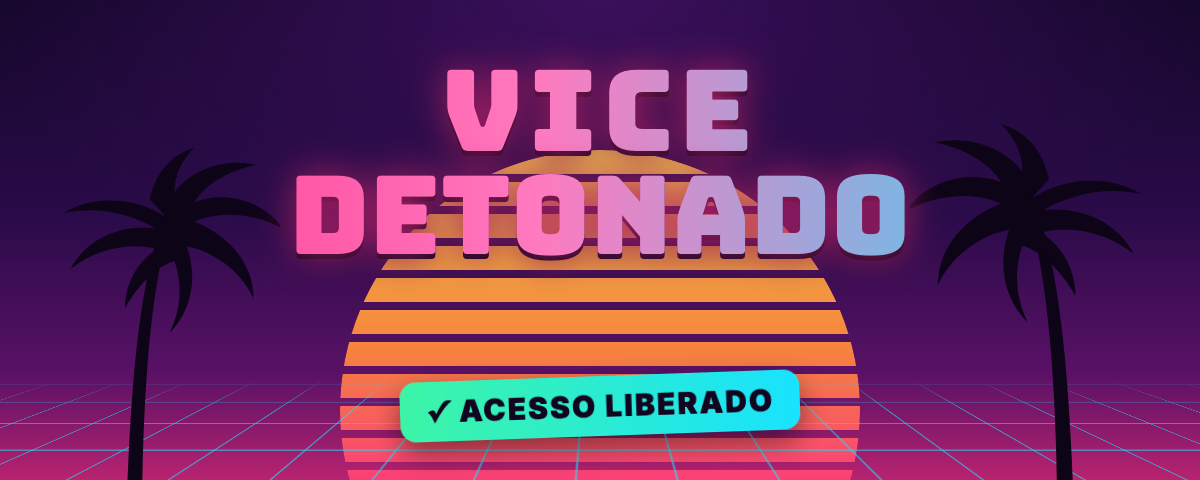
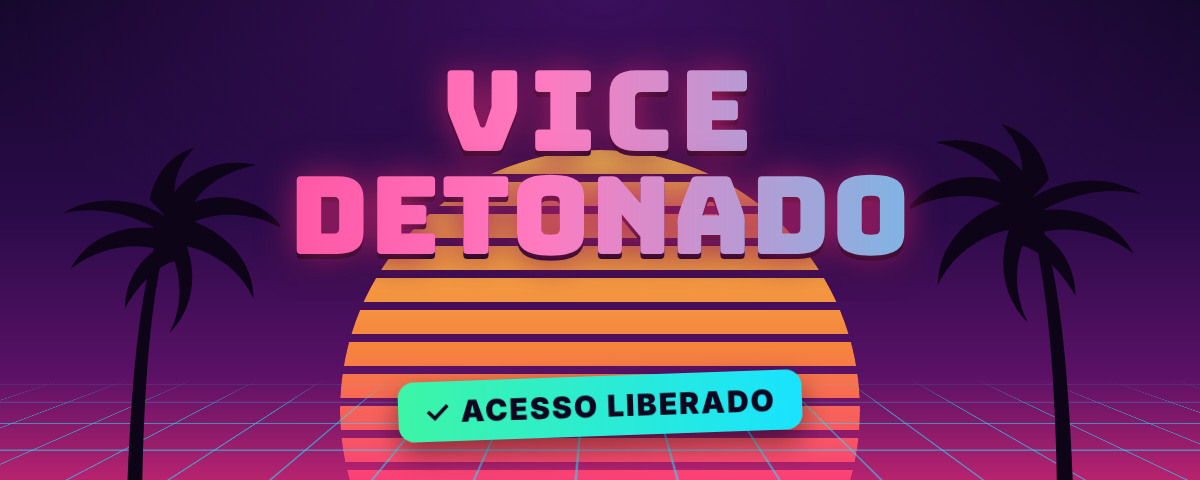
Recuperação de carrinho abandonado e Pix por e-mail (agendador a cada 5 min, descadastro)
Claude-Session: https://claude.ai/code/session_01EDcYwq5CbwWpEmB3uCXkTa

diff --git a/gta6-guia/app/worker/index.js b/gta6-guia/app/worker/index.js
@@ -11,10 +11,12 @@
  *   GET  /api/content/:lang/:mod  conteúdo do módulo (só se a compra liberou)
  *   GET  /api/missions/:lang      índice das missões · GET /api/missions/:lang/:slug  passo a passo
  *   GET  /api/progress  · PUT /api/progress { data }
+ *   GET  /api/email/sair?e=&t=    descadastro dos e-mails de recuperação
+ * Agendador (cron a cada 5 min): envia os e-mails de recuperação de carrinho/Pix que estão na hora.
  */
 import CONTENT_PT from './content/pt.json';
 import MISSOES_PT from './content/missoes-pt.json';
-import { accessEmail, cancelEmail, sendEmail, productTitle } from './emails.js';
+import { accessEmail, cancelEmail, recoveryEmail, sendEmail, productTitle } from './emails.js';
 
 const CONTENT = { pt: CONTENT_PT };
 const TERMS_VERSION = '2026-11-26';
@@ -151,6 +153,7 @@ const EVENT_KIND = {
   sale_boleto_generated: 'pending',
   sale_refunded: 'refunded',
   sale_chargeback: 'chargeback',
+  sale_abandoned: 'abandoned',
 };
 
 /** Itens do aviso. A Sellyo costuma mandar um aviso por produto (bump = outro aviso, mesmo orderId);
@@ -220,6 +223,106 @@ async function notifyBuyer(env, { kind, email, name, orderId, basePayment }) {
   await done(r.ok ? 'sent' : 'failed', r.ok ? r.id : r.error);
 }
 
+// ---------- recuperação de vendas (e-mail) ----------
+// Primeiro e-mail: carrinho em 60 min, Pix em 15 min. Depois, 24 h e 48 h após o início (iguais para os dois).
+const REC_FIRST_MIN = { cart: 60, pix: 15 };
+const REC_LATER_H = [24, 48];
+const addMin = (iso, m) => new Date(Date.parse(iso) + m * 60000).toISOString();
+
+async function hmacTag(env, value) {
+  const secret = env.UNSUB_SECRET || env.SELLYO_WEBHOOK_TOKEN || env.RESEND_API_KEY || 'vice-detonado';
+  const key = await crypto.subtle.importKey('raw', enc.encode(secret), { name: 'HMAC', hash: 'SHA-256' }, false, ['sign']);
+  return b64url(new Uint8Array(await crypto.subtle.sign('HMAC', key, enc.encode(value)))).slice(0, 24);
+}
+async function unsubUrl(env, email) {
+  const base = String(env.APP_URL || 'https://app.vicedetonado.com').replace(/\/+$/, '');
+  return `${base}/api/email/sair?e=${encodeURIComponent(email)}&t=${await hmacTag(env, email)}`;
+}
+
+/** Link de volta ao checkout: o que vier no aviso da Sellyo; senão, o checkout do produto (pelos módulos que ele libera). */
+async function recoveryLink(env, p, externalId, kind) {
+  const fromPayload = [p.checkout?.url, p.checkoutUrl, p.checkout_url, p.cart?.checkoutUrl, p.cart?.url, p.links?.checkout, p.payment?.checkoutUrl]
+    .find((x) => typeof x === 'string' && /^https:\/\//.test(x));
+  let url = fromPayload;
+  if (!url) {
+    const prod = await env.DB.prepare('SELECT grants FROM products WHERE external_id = ?').bind(externalId).first();
+    const g = String(prod?.grants || '');
+    url = g.includes('dinheiro') ? env.BUMP_URL_DINHEIRO : g.includes('platina') ? env.BUMP_URL_PLATINA : g.includes('garagem') ? env.BUMP_URL_GARAGEM : env.CHECKOUT_URL;
+  }
+  if (!url) return '';
+  try {
+    const u = new URL(url);
+    const phone = String(p.customer?.phone || '').replace(/[^\d]/g, '');
+    const set = { name: p.customer?.name, email: p.customer?.email, phone, utm_source: 'email', utm_medium: 'recuperacao', utm_campaign: kind };
+    for (const [k, v] of Object.entries(set)) if (v && !u.searchParams.has(k)) u.searchParams.set(k, String(v));
+    return u.toString();
+  } catch { return url; }
+}
+
+/** Começa (ou atualiza) a sequência de recuperação de uma pessoa. */
+async function startRecovery(env, p, { kind, email, externalId }) {
+  if (await env.DB.prepare('SELECT 1 FROM email_optout WHERE email = ?').bind(email).first()) return 'optout';
+  // Já comprou esse produto? Nada a recuperar.
+  const owned = await env.DB.prepare("SELECT 1 FROM purchases WHERE buyer_email = ? AND external_id = ? AND status = 'approved'").bind(email, externalId).first();
+  if (owned) return 'ja comprou';
+  const id = `${kind}:${email}`;
+  const link = await recoveryLink(env, p, externalId, kind);
+  const pixCode = String(p.payment?.pix?.copyPaste || p.payment?.pix?.code || p.payment?.pix?.qrCode || p.payment?.pixCode || p.pix?.code || '').slice(0, 1000);
+  const t = now();
+  const cur = await env.DB.prepare('SELECT status, updated_at FROM recovery WHERE id = ?').bind(id).first();
+  if (cur?.status === 'active') {
+    // Sequência já em andamento: só atualiza o link/código (não recomeça para não repetir e-mails).
+    await env.DB.prepare("UPDATE recovery SET link = COALESCE(NULLIF(?, ''), link), pix_code = COALESCE(NULLIF(?, ''), pix_code), updated_at = ? WHERE id = ?")
+      .bind(link, pixCode, t, id).run();
+    return 'em andamento';
+  }
+  // Uma sequência encerrada há menos de 7 dias não recomeça (evita mandar a mesma série de novo).
+  if (cur && Date.now() - Date.parse(cur.updated_at) < 7 * 86400000) return 'recente';
+  await env.DB.batch([
+    env.DB.prepare(`INSERT INTO recovery (id, kind, email, name, external_id, link, pix_code, step, next_at, status, created_at, updated_at)
+       VALUES (?1, ?2, ?3, ?4, ?5, ?6, ?7, 0, ?8, 'active', ?9, ?9)
+       ON CONFLICT(id) DO UPDATE SET name = ?4, external_id = ?5, link = ?6, pix_code = ?7, step = 0, next_at = ?8, status = 'active', detail = '', created_at = ?9, updated_at = ?9`)
+      .bind(id, kind, email, String(p.customer?.name || '').slice(0, 200), externalId, link, pixCode, addMin(t, REC_FIRST_MIN[kind]), t),
+    // Quem gerou Pix sai da sequência de carrinho (fica só a do Pix).
+    ...(kind === 'pix' ? [env.DB.prepare("UPDATE recovery SET status = 'done', detail = 'virou pix', updated_at = ? WHERE id = ? AND status = 'active'").bind(t, `cart:${email}`)] : []),
+  ]);
+  return 'iniciada';
+}
+
+/** Compra aprovada: encerra as sequências dessa pessoa. */
+const stopRecovery = (env, email) =>
+  env.DB.prepare("UPDATE recovery SET status = 'bought', updated_at = ? WHERE email = ? AND status = 'active'").bind(now(), email).run();
+
+/** Agendador: envia os e-mails que estão na hora (até 50 por rodada). */
+async function runRecovery(env) {
+  const { results } = await env.DB.prepare("SELECT * FROM recovery WHERE status = 'active' AND next_at <= ? ORDER BY next_at LIMIT 50").bind(now()).all();
+  for (const r of results) {
+    const t = now();
+    const close = (status, detail = '') => env.DB.prepare('UPDATE recovery SET status = ?, detail = ?, updated_at = ? WHERE id = ?').bind(status, detail, t, r.id).run();
+    if (await env.DB.prepare('SELECT 1 FROM email_optout WHERE email = ?').bind(r.email).first()) { await close('optout'); continue; }
+    const bought = await env.DB.prepare("SELECT 1 FROM purchases WHERE buyer_email = ? AND status = 'approved' AND (external_id = ? OR updated_at >= ?)")
+      .bind(r.email, r.external_id, r.created_at).first();
+    if (bought) { await close('bought'); continue; }
+    if (!r.link) { await close('done', 'sem link de checkout'); continue; }
+    const step = r.step + 1;
+    const unsub = await unsubUrl(env, r.email);
+    const msg = recoveryEmail(env, { kind: r.kind, step, name: r.name, link: r.link, pixCode: r.pix_code, unsubUrl: unsub });
+    const res = await sendEmail(env, { to: r.email, ...msg, idempotencyKey: `rec:${r.id}:${r.created_at}:${step}`,
+      headers: { 'List-Unsubscribe': `<${unsub}>`, 'List-Unsubscribe-Post': 'List-Unsubscribe=One-Click' } });
+    if (!res.ok) {
+      // Falhou: tenta de novo em 15 min; desiste depois de 3 dias do início.
+      const giveUp = Date.now() - Date.parse(r.created_at) > 3 * 86400000;
+      await env.DB.prepare('UPDATE recovery SET next_at = ?, status = ?, detail = ?, updated_at = ? WHERE id = ?')
+        .bind(addMin(t, 15), giveUp ? 'done' : 'active', `falha no e-mail ${step}: ${res.error}`, t, r.id).run();
+      continue;
+    }
+    const next = step <= REC_LATER_H.length ? addMin(r.created_at, REC_LATER_H[step - 1] * 60) : null;
+    await env.DB.prepare('UPDATE recovery SET step = ?, next_at = ?, status = ?, detail = ?, updated_at = ? WHERE id = ?')
+      .bind(step, next || t, next ? 'active' : 'done', `e-mail ${step} enviado`, t, r.id).run();
+  }
+  return results.length;
+}
+
 async function sellyoWebhook(req, env, url, ctx) {
   if (env.SELLYO_WEBHOOK_TOKEN && !sameText(url.searchParams.get('token') || '', env.SELLYO_WEBHOOK_TOKEN)) {
     return json({ ok: false, error: 'Token inválido' }, 401);
@@ -237,6 +340,12 @@ async function sellyoWebhook(req, env, url, ctx) {
   const dup = await env.DB.prepare('SELECT outcome FROM webhook_events WHERE id = ?').bind(eventId).first();
   if (dup) return json({ ok: true, outcome: 'duplicate' });
   if (kind === 'ignore') return log('ignored');
+  if (kind === 'abandoned') {
+    const email = normEmail(p.customer?.email);
+    const it = itemsOf(p)[0];
+    if (!validEmail(email) || !it) return log('ignored', 'abandono sem e-mail ou produto');
+    return log('recovery', await startRecovery(env, p, { kind: 'cart', email, externalId: it.externalId }));
+  }
   if (kind === 'approved' && p.subscription?.customerAccess?.hasAccess === false) return log('ignored', 'sem acesso');
 
   const email = normEmail(p.customer?.email);
@@ -285,6 +394,9 @@ async function sellyoWebhook(req, env, url, ctx) {
     const prod = await env.DB.prepare('SELECT grants FROM products WHERE external_id = ?').bind(it.externalId).first();
     if (!prod?.grants) unmapped.push(it.externalId);
   }
+  let recNote = '';
+  if (kind === 'approved') await stopRecovery(env, email);
+  else if (p.event === 'sale_pix_generated') recNote = 'recuperação: ' + (await startRecovery(env, p, { kind: 'pix', email, externalId: items[0].externalId }));
   const outcome = kind === 'approved' ? (unmapped.length ? 'unmapped_product' : 'granted') : kind === 'pending' ? 'recorded' : 'revoked';
   if (kind !== 'pending') {
     const job = notifyBuyer(env, { kind, email, name: p.customer?.name, orderId: p.order?.orderId || null, basePayment })
@@ -292,7 +404,7 @@ async function sellyoWebhook(req, env, url, ctx) {
     if (ctx) ctx.waitUntil(job);
     else await job;
   }
-  return log(outcome, [created ? 'conta criada' : '', unmapped.length ? 'sem mapeamento: ' + unmapped.join(', ') : ''].filter(Boolean).join(' · '));
+  return log(outcome, [created ? 'conta criada' : '', unmapped.length ? 'sem mapeamento: ' + unmapped.join(', ') : '', recNote].filter(Boolean).join(' · '));
 }
 
 // ---------- rotas da conta ----------
@@ -326,6 +438,30 @@ async function api(req, env, url, ctx) {
   if (path === '/api/webhooks/sellyo' && method === 'POST') return sellyoWebhook(req, env, url, ctx);
 
   // Prévia dos e-mails, só no ambiente de desenvolvimento: /api/dev/email/acesso | reembolso | chargeback
+  const rv = path.match(/^\/api\/dev\/email\/(carrinho|pix)-([123])$/);
+  if (rv && method === 'GET' && isDev(env)) {
+    const m = recoveryEmail(env, { kind: rv[1] === 'pix' ? 'pix' : 'cart', step: Number(rv[2]), name: 'Lucia Caminos', link: 'https://pay.sellyo.com.br/p/exemplo',
+      pixCode: rv[1] === 'pix' ? '00020126580014br.gov.bcb.pix0136exemplo-de-codigo-pix-copia-e-cola5204000053039865406' : '', unsubUrl: await unsubUrl(env, 'lucia@example.com') });
+    return new Response(m.html, { headers: { 'content-type': 'text/html; charset=utf-8' } });
+  }
+  if (path === '/api/dev/recovery/run' && method === 'POST' && isDev(env)) return json({ processed: await runRecovery(env) });
+
+  if (path === '/api/email/sair' && (method === 'GET' || method === 'POST')) {
+    const email = normEmail(url.searchParams.get('e'));
+    const ok = validEmail(email) && sameText(url.searchParams.get('t') || '', await hmacTag(env, email));
+    if (ok) {
+      await env.DB.batch([
+        env.DB.prepare('INSERT OR IGNORE INTO email_optout (email) VALUES (?)').bind(email),
+        env.DB.prepare("UPDATE recovery SET status = 'optout', updated_at = ? WHERE email = ? AND status = 'active'").bind(now(), email),
+      ]);
+    }
+    const msg = ok ? 'Pronto! Você não vai mais receber esses e-mails.' : 'Link inválido.';
+    return new Response(`<!doctype html><html lang="pt-BR"><meta charset="utf-8"><meta name="viewport" content="width=device-width,initial-scale=1"><title>Vice Detonado</title>
+<body style="margin:0;min-height:100vh;display:grid;place-items:center;background:#0d0618;color:#f6eeff;font-family:Inter,system-ui,sans-serif;text-align:center;padding:24px">
+<div><h1 style="font-size:22px">${msg}</h1><p style="color:#b3a3d1">Se mudar de ideia, é só comprar quando quiser.</p></div></body></html>`,
+      { status: ok ? 200 : 400, headers: { 'content-type': 'text/html; charset=utf-8' } });
+  }
+
   const pv = path.match(/^\/api\/dev\/email\/(acesso|reembolso|chargeback)$/);
   if (pv && method === 'GET' && isDev(env)) {
     const m = pv[1] === 'acesso'
@@ -429,5 +565,9 @@ export default {
       }
     }
     return env.ASSETS.fetch(req);
+  },
+  // Cron (wrangler.jsonc → triggers): recuperação de carrinho/Pix por e-mail.
+  async scheduled(event, env, ctx) {
+    ctx.waitUntil(runRecovery(env).catch((e) => console.error('recovery_error', e?.message)));
   },
 };

diff --git a/gta6-guia/app/worker/emails.js b/gta6-guia/app/worker/emails.js
@@ -25,7 +25,7 @@ const host = (env) => appUrl(env).replace(/^https?:\/\//, '');
 const C = { bg: '#0d0618', card: '#1c1033', card2: '#25153f', line: '#3a2560', text: '#f6eeff', muted: '#b3a3d1', pink: '#ff2e88', cyan: '#19e3ff', gold: '#ffd24a', ok: '#3df5a6' };
 const FONT = "font-family:Inter,'Segoe UI',Roboto,Helvetica,Arial,sans-serif;";
 
-function layout(env, { preheader, banner, bannerAlt, body }) {
+function layout(env, { preheader, banner, bannerAlt, body, footer }) {
   const url = appUrl(env);
   return `<!doctype html>
 <html lang="pt-BR"><head><meta charset="utf-8"><meta name="viewport" content="width=device-width,initial-scale=1">
@@ -44,7 +44,7 @@ function layout(env, { preheader, banner, bannerAlt, body }) {
     </td></tr>
     <tr><td align="center" style="padding:22px 16px 8px;${FONT}font-size:12px;line-height:1.6;color:${C.muted};">
       Vice Detonado · guia não oficial, sem vínculo com a Rockstar Games ou a Take-Two.<br>
-      Você recebeu este e-mail por causa de uma compra feita com este endereço.
+      ${footer || 'Você recebeu este e-mail por causa de uma compra feita com este endereço.'}
     </td></tr>
   </table>
 </td></tr></table>
@@ -181,7 +181,7 @@ export function cancelEmail(env, { name, kind, items, stillHasAccess }) {
 }
 
 /** Envia pelo Resend. Retorna { ok, id?, error? }. Sem RESEND_API_KEY (dev), só registra no console. */
-export async function sendEmail(env, { to, subject, html, text, idempotencyKey }) {
+export async function sendEmail(env, { to, subject, html, text, idempotencyKey, headers }) {
   if (!env.RESEND_API_KEY) {
     console.log('email (sem RESEND_API_KEY, não enviado):', to, subject);
     return { ok: false, error: 'sem RESEND_API_KEY' };
@@ -200,8 +200,65 @@ export async function sendEmail(env, { to, subject, html, text, idempotencyKey }
       html,
       text,
       ...(env.EMAIL_REPLY_TO ? { reply_to: env.EMAIL_REPLY_TO } : {}),
+      ...(headers ? { headers } : {}),
     }),
   });
   const body = await r.json().catch(() => ({}));
   return r.ok ? { ok: true, id: body.id } : { ok: false, error: `${r.status} ${body.message || body.name || ''}`.trim() };
+}
+
+/**
+ * Recuperação de venda. kind: 'cart' (carrinho abandonado) | 'pix' (Pix gerado e não pago).
+ * step: 1, 2 ou 3 (o 1º e-mail muda conforme o tipo; o 2º e o 3º são iguais para os dois).
+ */
+export function recoveryEmail(env, { kind, step, name, link, pixCode, unsubUrl }) {
+  const fn = firstName(name);
+  const hi = fn ? `${esc(fn)}, ` : '';
+  const benefits = `<table role="presentation" width="100%" cellpadding="0" cellspacing="0" border="0" bgcolor="${C.card2}" style="background:${C.card2};border:1px solid ${C.line};border-radius:14px;margin:6px 0 4px;">${[
+    'As 135 missões passo a passo, com imagem',
+    'Checklist dos 100% e todos os colecionáveis',
+    'O que você perde em cada capítulo, antes de avançar',
+    'Busca instantânea: digitou, achou',
+    'Em português e funcionando até sem internet',
+  ].map((t, i, a) => `<tr><td style="padding:11px 16px;${i < a.length - 1 ? `border-bottom:1px solid ${C.line};` : ''}${FONT}font-size:15px;color:${C.text};"><span style="color:${C.ok};font-weight:900;">✓</span>&nbsp; ${t}</td></tr>`).join('')}</table>`;
+  const pixBox = pixCode
+    ? label('Pix copia e cola') + `<div style="background:${C.card2};border:1px solid ${C.line};border-radius:12px;padding:12px 14px;font-family:Menlo,Consolas,monospace;font-size:12px;line-height:1.5;color:${C.gold};word-break:break-all;">${esc(pixCode)}</div>` +
+      small('Copie o código e cole no app do seu banco, em Pix → Copia e cola.')
+    : '';
+  let subject, preheader, body, text;
+  if (step === 1 && kind === 'pix') {
+    subject = 'Seu Pix do Vice Detonado está esperando';
+    preheader = 'Assim que pagar, o acesso chega na hora.';
+    body = [h1(`${hi}seu Pix foi gerado 👀`), p('Mas o pagamento ainda não caiu por aqui. Assim que pagar, o acesso chega neste e-mail na hora e você já entra jogando.'),
+      pixBox, button(link, 'PAGAR AGORA →'), small('Se o código expirou, o botão acima gera um novo.')].join('\n');
+    text = `${fn ? fn + ', seu' : 'Seu'} Pix do Vice Detonado foi gerado, mas ainda não caiu.\nAssim que pagar, o acesso chega na hora.\n\n${pixCode ? 'Pix copia e cola: ' + pixCode + '\n\n' : ''}Pagar ou gerar um novo código: ${link}`;
+  } else if (step === 1) {
+    subject = `${fn ? fn + ', você' : 'Você'} esqueceu isso aqui 🎮`;
+    preheader = 'Seu detonado do GTA VI ficou no carrinho.';
+    body = [h1(`${hi}seu acesso ficou no carrinho`), p('Você começou a garantir o Vice Detonado e não finalizou. Se deu algum problema no pagamento, é só tentar de novo pelo botão abaixo.'),
+      button(link, 'FINALIZAR MINHA COMPRA →'), env.EMAIL_REPLY_TO ? small('Travou em alguma coisa? Responda este e-mail que a gente ajuda.') : ''].join('\n');
+    text = `${fn ? fn + ', você' : 'Você'} começou a garantir o Vice Detonado e não finalizou.\n\nFinalizar: ${link}`;
+  } else if (step === 2) {
+    subject = 'Quanto tempo você perdeu no YouTube ontem?';
+    preheader = 'Vídeo de 40 minutos pra achar uma missão não dá.';
+    body = [h1(`${hi}seja sincero 😅`), p('Quantas vezes você pausou o GTA VI ontem pra procurar alguma coisa?'),
+      p(`Vídeo de 38 minutos. Pula a intro. Pula o "deixa o like". Pula o patrocinador. Não é esse. Abre outro… em inglês.`, `color:${C.muted};`),
+      p('O Vice Detonado resolve isso num lugar só, no seu celular:'), benefits, button(link, 'QUERO PARAR DE PERDER TEMPO →')].join('\n');
+    text = `Quantas vezes você pausou o GTA VI ontem pra procurar alguma coisa?\n\nNo Vice Detonado está tudo num lugar só: as 135 missões passo a passo, o checklist dos 100% e todos os colecionáveis.\n\nGarantir: ${link}`;
+  } else {
+    subject = '⚠ Tem missão no GTA VI que some pra sempre';
+    preheader = 'E o jogo zera seu dinheiro no fim do Capítulo 1.';
+    body = [h1(`${hi}um aviso antes de você avançar`),
+      p(`<b style="color:${C.gold};">→</b> Algumas missões somem pra sempre quando você muda de capítulo.<br><b style="color:${C.gold};">→</b> No fim do Capítulo 1, o jogo zera o dinheiro que você tem no bolso.`),
+      p('Quem descobre isso depois, perde. O Vice Detonado mostra, capítulo por capítulo, o que fazer ANTES de avançar, e você marca tudo pra ver na hora o que falta pros 100%.'),
+      p(`E tem <b>garantia de 7 dias</b>: se não curtir, devolvemos 100% do valor.`), button(link, 'GARANTIR MEU ACESSO →'),
+      small('Este é o último e-mail sobre isso. Bom jogo! 🌴')].join('\n');
+    text = `Algumas missões do GTA VI somem pra sempre quando você muda de capítulo, e no fim do Capítulo 1 o jogo zera seu dinheiro.\nO Vice Detonado te avisa antes. Garantia de 7 dias.\n\nGarantir: ${link}`;
+  }
+  const footer = `Você recebeu este e-mail porque começou uma compra do Vice Detonado com este endereço.<br><a href="${unsubUrl}" style="color:${C.muted};text-decoration:underline;">Não quero mais receber estes e-mails</a>`;
+  return {
+    subject,
+    html: layout(env, { preheader, banner: 'topo-carrinho.png', bannerAlt: 'Vice Detonado: seu acesso está esperando', body, footer }),
+    text: `${text}\n\nNão quer mais receber estes e-mails? ${unsubUrl}`,
+  };
 }

diff --git a/gta6-guia/criativos/email/topo.html b/gta6-guia/criativos/email/topo.html
@@ -24,6 +24,7 @@ body{width:1200px;height:480px;overflow:hidden;font-family:Inter,sans-serif;posi
 .cancelado .sun,.cancelado .grid{filter:grayscale(.85) brightness(.55)}
 .cancelado .title span{background:linear-gradient(90deg,#b3a3d1,#e6ddf5);-webkit-background-clip:text;filter:drop-shadow(0 5px 0 #12051f)}
 .cancelado .tag{background:#e6ddf5}
+.carrinho .tag{background:linear-gradient(90deg,#ffd24a,#ffa34a)}
 </style></head><body>
 <div class="sun"></div>
 <div class="grid"></div>
@@ -34,6 +35,6 @@ body{width:1200px;height:480px;overflow:hidden;font-family:Inter,sans-serif;posi
 <script>
   const v = new URLSearchParams(location.search).get('v') || 'acesso';
   document.body.className = v;
-  document.getElementById('tag').textContent = v === 'cancelado' ? 'Pedido cancelado' : '✓ Acesso liberado';
+  document.getElementById('tag').textContent = v === 'cancelado' ? 'Pedido cancelado' : v === 'carrinho' ? 'Seu acesso está esperando' : '✓ Acesso liberado';
 </script>
 </body></html>

diff --git a/gta6-guia/criativos/email/render-topo.js b/gta6-guia/criativos/email/render-topo.js
@@ -5,7 +5,7 @@ const OUT = path.join(__dirname, '../../app/public/email/');
 (async () => {
   const b = await chromium.launch(process.env.CHROME ? { executablePath: process.env.CHROME } : {});
   const p = await b.newPage({ viewport: { width: 1200, height: 480 } });
-  for (const v of ['acesso', 'cancelado']) {
+  for (const v of ['acesso', 'cancelado', 'carrinho']) {
     await p.goto('file://' + path.join(__dirname, 'topo.html') + '?v=' + v);
     await p.evaluate(() => document.fonts.ready);
     await p.waitForTimeout(600);
